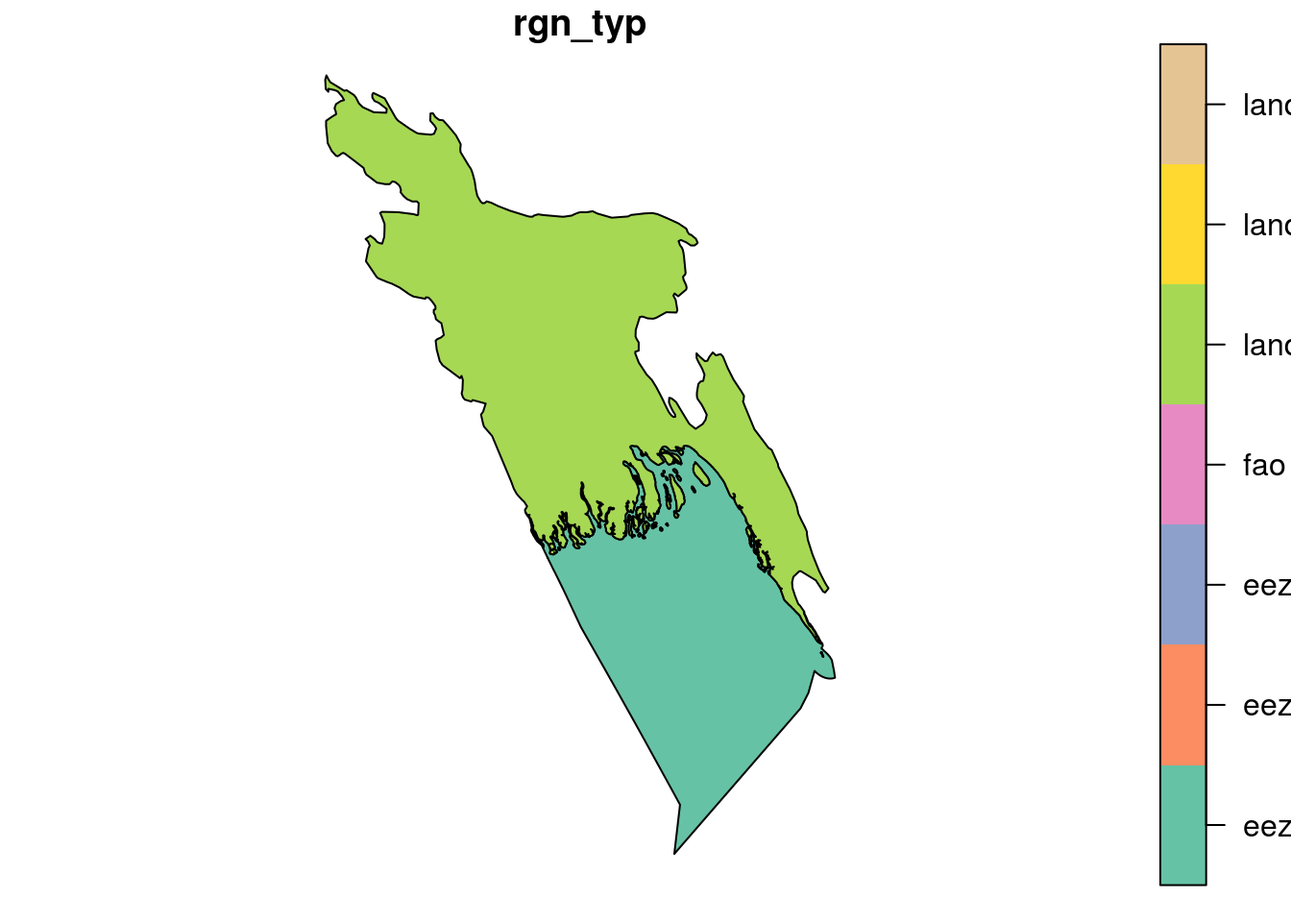
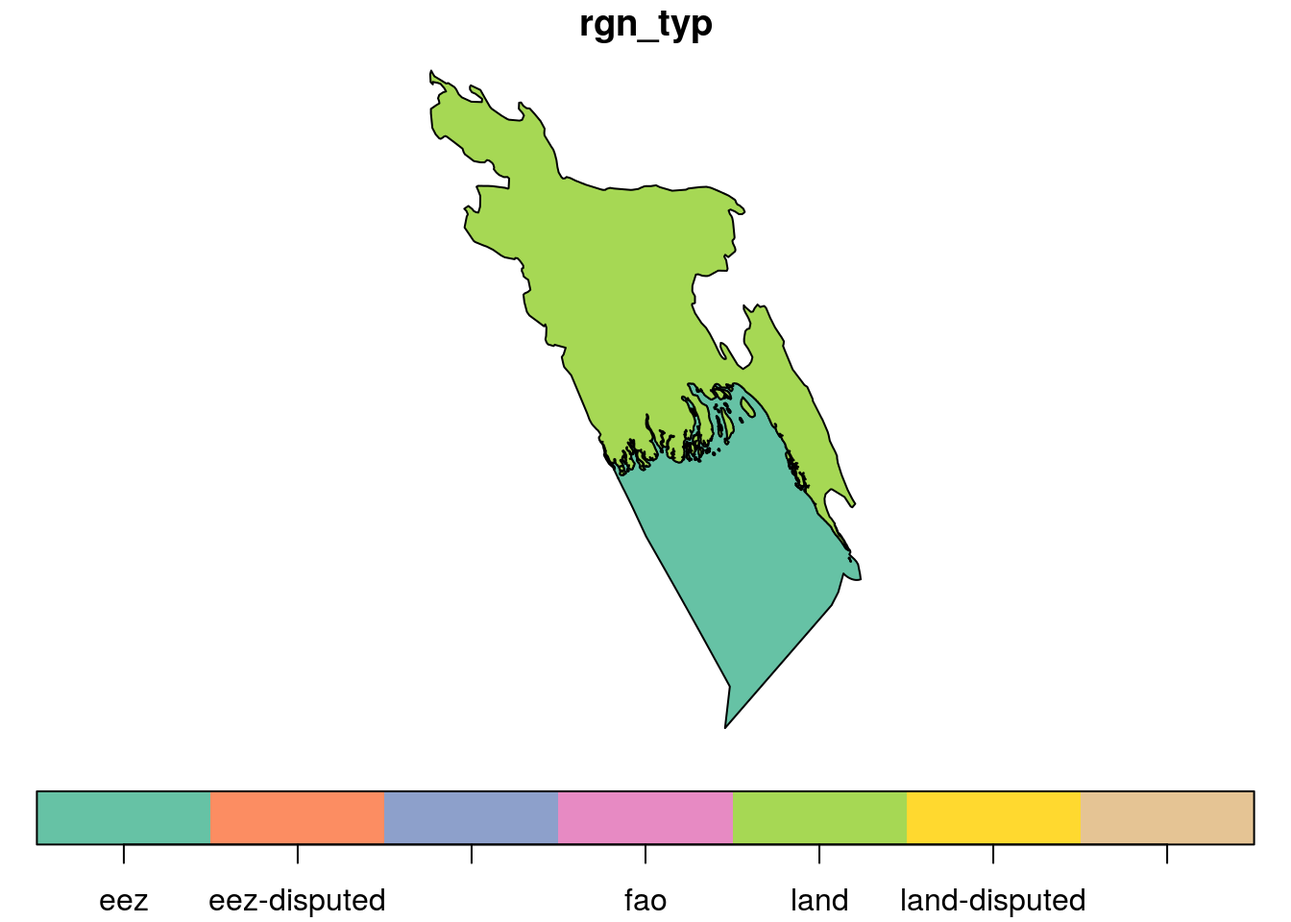
more edits

diff --git a/public/post/cropping-rasters-down-to-size/index.html b/public/post/cropping-rasters-down-to-size/index.html
@@ -344,27 +344,25 @@ A significant portion of my work on the Ocean Health Index (OHI) involves workin
     <div class="article-style" itemprop="articleBody">
       <p><em>This blog post was written for <a href="http://ohi-science.org/">OHI-Science.org</a></em></p>
 <p>A significant portion of my work on the Ocean Health Index (OHI) involves working with <a href="http://desktop.arcgis.com/en/arcmap/10.3/manage-data/raster-and-images/what-is-raster-data.htm">raster data</a>, a specific type of spatial data where values are held in grid cells. The data I work with varies from high resolution, remotely sensed data on <a href="https://www.nodc.noaa.gov/sog/cortad/">sea surface temperature</a> to coarse, modeled data on global <a href="http://www.seaaroundus.org/data/#/spatial-catch">fish catch</a>. When I was working on the <a href="http://ohi-science.org/ohi-global/">global assessment</a>, I dealt with raster data at a global scale.</p>
-<div class="figure">
-<img src="/img/example_rasters.png" />
-
-</div>
+<p><img src="/img/example_rasters.png" /> <em>Examples of raster data used in the Ocean Health Index</em></p>
 <p>Now that I am working on a regional assessment in the <a href="http://www.ohi-northeast.org/">US Northeast</a>, I often need to use the same data from the global assessment but cropped to my regional scale. Since I know I am not the only one doing this (we currently have <a href="http://ohi-science.org/projects/ohi-assessments/">over 20 OHI+ assessments occurring around the world</a>), I wanted to share my process for making our global raster layers usable at regional scales.</p>
-<p>To demonstrate how to crop a global raster layer to a regional scale, here are step-by-step instructions you can follow along with on your computer using the programming language R, which we use for OHI assessments. Essentially, we are going to treat a country’s spatial boundaries like a cookie cutter. When we use it on a global mangrove raster layer for the whole world, we will end up with mangrove data only in the shape of the cookie cutter, in a process called “cropping.”</p>
+<p>To demonstrate how to crop a global raster layer to a regional scale, here are step-by-step instructions you can follow along with on your computer using the programming language R, which we use for OHI assessments. Essentially, we are going to treat a country’s spatial boundaries like a cookie cutter. When we use it on a global mangrove raster layer for the whole world, we will end up with mangrove data only in the shape of the cookie cutter, in a process I’ve named “crop &amp; mask.”</p>
 <p>We will do the following:</p>
 <ol style="list-style-type: decimal">
 <li>Read in a global mangrove dataset</li>
 <li>Select a single country’s spatial boundary from the OHI global region file</li>
-<li><code>crop</code> the mangrove data to the region scale</li>
+<li><code>crop</code> the mangrove data to a <em>bounding box</em> equal to the extent of the region</li>
+<li><code>mask</code> out the mangrove data to retain only the data within region boundaries</li>
 </ol>
-<p>The package you will need are <a href="https://cran.r-project.org/web/packages/raster/vignettes/Raster.pdf"><code>raster</code></a>, <a href="https://r-spatial.github.io/sf/"><code>sf</code></a>, and <a href="https://dplyr.tidyverse.org/"><code>dplyr</code></a>.</p>
+<p>The packages you will need are <a href="https://cran.r-project.org/web/packages/raster/vignettes/Raster.pdf"><code>raster</code></a>, <a href="https://r-spatial.github.io/sf/"><code>sf</code></a>, and <a href="https://dplyr.tidyverse.org/"><code>dplyr</code></a>.</p>
 <pre class="r"><code>## load these three packages using the library() function
 library(raster)
 library(sf)
 library(dplyr)</code></pre>
-<p>Throughout this post, I’ll use the packagename::function nomenclature to identify which package functions come from.</p>
+<p>Throughout this post, I’ll use the <code>packagename::function</code> nomenclature to identify which package functions come from.</p>
 <div id="load-raster-data" class="section level2">
 <h2>Load raster data</h2>
-<p>For this blog, I will use a raster that contains global mangrove data. This file is too large to store on our <a href="https://github.com/OHI-Science/">OHI-Science GitHub account</a>, where most of our OHI data is held. Instead, it is stored on a server at NCEAS and can be downloaded <a href="https://ohi.nceas.ucsb.edu/data/data/mangrove_2012_mw_km2.tif">here</a>. I have downloaded this data onto my personal computer and saved it in a folder called <code>big</code>.</p>
+<p>For this blog, I will use a raster that contains global mangrove data. This file is too large to store on our <a href="https://github.com/OHI-Science/">OHI-Science GitHub account</a>, where most of our OHI data is held. Instead, it is stored on a server at NCEAS and can be downloaded <a href="https://ohi.nceas.ucsb.edu/data/data/mangrove_2012_mw_km2.tif">here</a>.</p>
 <p>Some important information about this dataset:</p>
 <blockquote>
 <p>This is a slightly modified version of the “MFW, Mangrove Forest Cover Loss since 2000 in areas with year 2000 Mangrove Forest” dataset from: Hamilton, S. E., &amp; Casey, D. (2016). <a href="http://faculty.salisbury.edu/~sehamilton/mangroves/index.html">Creation of a high spatio-temporal resolution global database of continuous mangrove forest cover for the 21st century (CGMFC-21)</a>. Global Ecology and Biogeography, 25(6), 729-738. <a href="doi:10.1111/geb.1244" class="uri">doi:10.1111/geb.1244</a>.</p>
@@ -372,6 +370,7 @@ library(dplyr)</code></pre>
 <p>The R scripts we used to estimate mangrove extent and trend are available from <a href="https://github.com/OHI-Science/ohiprep/tree/master/globalprep/hab_mangrove/v2015">GitHub</a>.</p>
 <p>These data could be useful for estimating mangrove cover in regions without local mangrove surveys.</p>
 </blockquote>
+<p>I have downloaded this data onto my personal computer and saved it in a folder called <code>big</code>.</p>
 <p>Let’s first take a look at the downloaded mangrove data. Since mangroves tend to be limited to coastal regions at tropical latitudes, it is difficult to make sense of this data when visualizing it at a global scale, even when I make all cells black in color. This is also due to the high resolution of the data.</p>
 <p>Can you see the dots!?</p>
 <pre class="r"><code>## I&#39;ve saved this raster in a folder called `big` on my personal drive. You will need to replace this file path with where the file is located on your own computer.
@@ -395,24 +394,11 @@ plot(mangrove, col = &quot;black&quot;, axes = FALSE)</code></pre>
 <img src="/img/eezs.png" />
 
 </div>
-<pre class="r"><code># The primary spatial polygon file is &quot;regions&quot;
-download.file(&quot;https://ohi.nceas.ucsb.edu/data/data/regions.zip&quot;, destfile = &quot;/home/afflerbach/big/ohi-global-regions.zip&quot;, quiet = TRUE)
-
-#unzip file
-unzip(&quot;/home/afflerbach/big/ohi-global-regions.zip&quot;, exdir=&quot;/home/afflerbach/big/regions&quot;)</code></pre>
-<p>Once downloaded, you will have two different regions files, one in <strong>Mollweide</strong> and one in <strong>WGS84</strong>. You can select whichever suits your needs. If you need more information on coordinate reference systems see <a href="https://www.nceas.ucsb.edu/~frazier/RSpatialGuides/OverviewCoordinateReferenceSystems.pdf">here</a>.</p>
-<p>Since the mangrove data is already in a Mollweide projection, we will use the regions file in the same projection, <code>regions_mol</code>. I am going to use the function <code>st_read()</code> to load the shapefile. This comes from the <code>sf</code> package and is a preferred method of loading and working with spatial data as opposed to using <code>readOGR()</code> from the <code>rgdal</code> package. The <code>st_read()</code> function will read in the shapefile as a Simple Feature object, meaning the spatial information is stored in a dataframe. This allows you to use data wrangling tools such as <code>dplyr</code> to work with the data.</p>
-<p>MAYBE MOVE -&gt;But, as you’ll see later, when working with both polygons and rasters it is often necessary to convert a simple feature object to a <code>SpatialPolygonsDataFrame</code>.</p>
-<pre class="r"><code>## use st_read to read in the global regions shapefile as a Simple Feature object
-regions &lt;- st_read(&quot;/home/afflerbach/big/regions/regions_mol.shp&quot;)</code></pre>
-<pre><code>## Reading layer `regions_mol&#39; from data source `/home/afflerbach/big/regions/regions_mol.shp&#39; using driver `ESRI Shapefile&#39;
-## Simple feature collection with 551 features and 7 fields
-## geometry type:  MULTIPOLYGON
-## dimension:      XY
-## bbox:           xmin: -18040060 ymin: -9020048 xmax: 18040080 ymax: 9020048
-## epsg (SRID):    NA
-## proj4string:    +proj=moll +lon_0=0 +x_0=0 +y_0=0 +datum=WGS84 +units=m +no_defs</code></pre>
-<p>The <code>regions</code> object is a simple feature with an attribute table that lists some important variables including the type of region (land or EEZ), name, our three-letter key, and total area.</p>
+<p>Once downloaded, you will have two different regions files, one in a <strong>Mollweide</strong> projection and one in <strong>WGS84</strong>. You can select whichever suits your needs. If you need more information on coordinate reference systems see <a href="https://www.nceas.ucsb.edu/~frazier/RSpatialGuides/OverviewCoordinateReferenceSystems.pdf">here</a>.</p>
+<p>Since the mangrove data is already in a Mollweide projection, we will use the regions file in the same projection, <code>regions_mol</code>. I am going to use the function <code>st_read()</code> to load the shapefile. This comes from the <code>sf</code> package and is a preferred method of loading and working with spatial data as opposed to using <code>readOGR()</code> from the <code>rgdal</code> package. The <code>st_read()</code> function will read in the shapefile as a <strong>simple feature</strong> object, meaning the spatial information is stored in a dataframe. This allows you to use data wrangling tools such as <code>dplyr</code> to work with the data.</p>
+<pre class="r"><code>## use st_read to read in the global regions shapefile as a simple feature object
+regions &lt;- st_read(&quot;/home/afflerbach/big/regions/regions_mol.shp&quot;, quiet = TRUE)</code></pre>
+<p>The <code>regions</code> object is a simple feature with an attribute table in the form of a dataframe that lists some important variables including the type of region (land or EEZ), name, our OHI three-letter key, and total area.</p>
 <pre class="r"><code>head(regions)</code></pre>
 <pre><code>## Simple feature collection with 6 features and 7 fields
 ## geometry type:  MULTIPOLYGON
@@ -437,6 +423,7 @@ regions &lt;- st_read(&quot;/home/afflerbach/big/regions/regions_mol.shp&quot;)<
 <p>Let’s plot the object to make sure what we have is what we expect. With simple features, you need to tell <code>plot()</code> which column to show, otherwise R will create a plot for every column, which we do not need! Here I am plotting just the <code>rgn_id</code> column. When plotting an sf object, you need to plot based on column location, and <code>rgn_id</code> is the third column:</p>
 <pre class="r"><code>plot(regions[3])</code></pre>
 <p><img src="/post/2018-04-26-cropping-rasters-down-to-size_files/figure-html/plot_rgns-1.png" width="672" /></p>
+<p>OK this looks like what we want!</p>
 </div>
 <div id="select-region-of-interest" class="section level2">
 <h2>Select region of interest</h2>
@@ -445,7 +432,7 @@ regions &lt;- st_read(&quot;/home/afflerbach/big/regions/regions_mol.shp&quot;)<
 bangladesh &lt;- regions %&gt;% 
   dplyr::filter(rgn_nam == &quot;Bangladesh&quot;)
 
-plot(bangladesh[1])</code></pre>
+plot(bangladesh[1], key.pos = 1)</code></pre>
 <p><img src="/post/2018-04-26-cropping-rasters-down-to-size_files/figure-html/plot_region-1.png" width="672" /></p>
 <p>This looks like what we want, so I recommend saving this object with <code>st_write()</code> to use in other parts of your analysis.</p>
 <pre class="r"><code># save the output (saving as an ESRI Shapefile):
@@ -465,7 +452,9 @@ bang_sp</code></pre>
 ## min values  :     eez,     eez,    204,    204, Bangladesh,     BGD, 139812.14 
 ## max values  :    land,    land,    204,    204, Bangladesh,     BGD,  84563.26</code></pre>
 <p>In a <code>SpatialPolygonsDataFrame</code>, attribute data is stored as a <code>data.frame</code> in the data slot, but the actual geometric features are stored in a polygons slot. This structure can be confusing to work with but until the <code>raster</code> package improves compatibility with <code>sf</code> objects, it is necessary to use <code>SpatialPolygonsDataFrames</code> with the <code>raster</code> package.</p>
-<p>Now we can use <code>bang_sp</code> to get the mangrove data that we are interested in, which is all mangrove habitat within the borders of Bangladesh. This requires two steps: 1. <code>raster::crop()</code> 2. <code>raster::mask()</code></p>
+<p>Now we can use <code>bang_sp</code> to get the mangrove data that we are interested in, which is all mangrove habitat within the borders of Bangladesh. This requires two steps:<br />
+1. <code>raster::crop()</code><br />
+2. <code>raster::mask()</code></p>
 <p>After trial and error I have determined that these two steps, in this order, is the fastest way to get the data we want. By first using the <code>crop()</code> function, we crop the <code>mangrove</code> raster dataset to a <em>bounding box</em> equal to the extent of the <code>bang_sp</code> object. I think of this as a way to zoom into the dataset so we only see what’s in our region of interest. But this still returns data that falls outside of Bangladesh:</p>
 <pre class="r"><code>bang_man &lt;- raster::crop(mangrove, bang_sp)
 plot(bang_man, axes = FALSE)

diff --git a/content/post/2018-04-26-cropping-rasters-down-to-size.html b/content/post/2018-04-26-cropping-rasters-down-to-size.html
@@ -11,27 +11,25 @@ tags: ["spatial", "Ocean Health Index"]
 
 <p><em>This blog post was written for <a href="http://ohi-science.org/">OHI-Science.org</a></em></p>
 <p>A significant portion of my work on the Ocean Health Index (OHI) involves working with <a href="http://desktop.arcgis.com/en/arcmap/10.3/manage-data/raster-and-images/what-is-raster-data.htm">raster data</a>, a specific type of spatial data where values are held in grid cells. The data I work with varies from high resolution, remotely sensed data on <a href="https://www.nodc.noaa.gov/sog/cortad/">sea surface temperature</a> to coarse, modeled data on global <a href="http://www.seaaroundus.org/data/#/spatial-catch">fish catch</a>. When I was working on the <a href="http://ohi-science.org/ohi-global/">global assessment</a>, I dealt with raster data at a global scale.</p>
-<div class="figure">
-<img src="/img/example_rasters.png" />
-
-</div>
+<p><img src="/img/example_rasters.png" /> <em>Examples of raster data used in the Ocean Health Index</em></p>
 <p>Now that I am working on a regional assessment in the <a href="http://www.ohi-northeast.org/">US Northeast</a>, I often need to use the same data from the global assessment but cropped to my regional scale. Since I know I am not the only one doing this (we currently have <a href="http://ohi-science.org/projects/ohi-assessments/">over 20 OHI+ assessments occurring around the world</a>), I wanted to share my process for making our global raster layers usable at regional scales.</p>
-<p>To demonstrate how to crop a global raster layer to a regional scale, here are step-by-step instructions you can follow along with on your computer using the programming language R, which we use for OHI assessments. Essentially, we are going to treat a country’s spatial boundaries like a cookie cutter. When we use it on a global mangrove raster layer for the whole world, we will end up with mangrove data only in the shape of the cookie cutter, in a process called “cropping.”</p>
+<p>To demonstrate how to crop a global raster layer to a regional scale, here are step-by-step instructions you can follow along with on your computer using the programming language R, which we use for OHI assessments. Essentially, we are going to treat a country’s spatial boundaries like a cookie cutter. When we use it on a global mangrove raster layer for the whole world, we will end up with mangrove data only in the shape of the cookie cutter, in a process I’ve named “crop &amp; mask.”</p>
 <p>We will do the following:</p>
 <ol style="list-style-type: decimal">
 <li>Read in a global mangrove dataset</li>
 <li>Select a single country’s spatial boundary from the OHI global region file</li>
-<li><code>crop</code> the mangrove data to the region scale</li>
+<li><code>crop</code> the mangrove data to a <em>bounding box</em> equal to the extent of the region</li>
+<li><code>mask</code> out the mangrove data to retain only the data within region boundaries</li>
 </ol>
-<p>The package you will need are <a href="https://cran.r-project.org/web/packages/raster/vignettes/Raster.pdf"><code>raster</code></a>, <a href="https://r-spatial.github.io/sf/"><code>sf</code></a>, and <a href="https://dplyr.tidyverse.org/"><code>dplyr</code></a>.</p>
+<p>The packages you will need are <a href="https://cran.r-project.org/web/packages/raster/vignettes/Raster.pdf"><code>raster</code></a>, <a href="https://r-spatial.github.io/sf/"><code>sf</code></a>, and <a href="https://dplyr.tidyverse.org/"><code>dplyr</code></a>.</p>
 <pre class="r"><code>## load these three packages using the library() function
 library(raster)
 library(sf)
 library(dplyr)</code></pre>
-<p>Throughout this post, I’ll use the packagename::function nomenclature to identify which package functions come from.</p>
+<p>Throughout this post, I’ll use the <code>packagename::function</code> nomenclature to identify which package functions come from.</p>
 <div id="load-raster-data" class="section level2">
 <h2>Load raster data</h2>
-<p>For this blog, I will use a raster that contains global mangrove data. This file is too large to store on our <a href="https://github.com/OHI-Science/">OHI-Science GitHub account</a>, where most of our OHI data is held. Instead, it is stored on a server at NCEAS and can be downloaded <a href="https://ohi.nceas.ucsb.edu/data/data/mangrove_2012_mw_km2.tif">here</a>. I have downloaded this data onto my personal computer and saved it in a folder called <code>big</code>.</p>
+<p>For this blog, I will use a raster that contains global mangrove data. This file is too large to store on our <a href="https://github.com/OHI-Science/">OHI-Science GitHub account</a>, where most of our OHI data is held. Instead, it is stored on a server at NCEAS and can be downloaded <a href="https://ohi.nceas.ucsb.edu/data/data/mangrove_2012_mw_km2.tif">here</a>.</p>
 <p>Some important information about this dataset:</p>
 <blockquote>
 <p>This is a slightly modified version of the “MFW, Mangrove Forest Cover Loss since 2000 in areas with year 2000 Mangrove Forest” dataset from: Hamilton, S. E., &amp; Casey, D. (2016). <a href="http://faculty.salisbury.edu/~sehamilton/mangroves/index.html">Creation of a high spatio-temporal resolution global database of continuous mangrove forest cover for the 21st century (CGMFC-21)</a>. Global Ecology and Biogeography, 25(6), 729-738. <a href="doi:10.1111/geb.1244" class="uri">doi:10.1111/geb.1244</a>.</p>
@@ -39,6 +37,7 @@ library(dplyr)</code></pre>
 <p>The R scripts we used to estimate mangrove extent and trend are available from <a href="https://github.com/OHI-Science/ohiprep/tree/master/globalprep/hab_mangrove/v2015">GitHub</a>.</p>
 <p>These data could be useful for estimating mangrove cover in regions without local mangrove surveys.</p>
 </blockquote>
+<p>I have downloaded this data onto my personal computer and saved it in a folder called <code>big</code>.</p>
 <p>Let’s first take a look at the downloaded mangrove data. Since mangroves tend to be limited to coastal regions at tropical latitudes, it is difficult to make sense of this data when visualizing it at a global scale, even when I make all cells black in color. This is also due to the high resolution of the data.</p>
 <p>Can you see the dots!?</p>
 <pre class="r"><code>## I&#39;ve saved this raster in a folder called `big` on my personal drive. You will need to replace this file path with where the file is located on your own computer.
@@ -62,24 +61,11 @@ plot(mangrove, col = &quot;black&quot;, axes = FALSE)</code></pre>
 <img src="/img/eezs.png" />
 
 </div>
-<pre class="r"><code># The primary spatial polygon file is &quot;regions&quot;
-download.file(&quot;https://ohi.nceas.ucsb.edu/data/data/regions.zip&quot;, destfile = &quot;/home/afflerbach/big/ohi-global-regions.zip&quot;, quiet = TRUE)
-
-#unzip file
-unzip(&quot;/home/afflerbach/big/ohi-global-regions.zip&quot;, exdir=&quot;/home/afflerbach/big/regions&quot;)</code></pre>
-<p>Once downloaded, you will have two different regions files, one in <strong>Mollweide</strong> and one in <strong>WGS84</strong>. You can select whichever suits your needs. If you need more information on coordinate reference systems see <a href="https://www.nceas.ucsb.edu/~frazier/RSpatialGuides/OverviewCoordinateReferenceSystems.pdf">here</a>.</p>
-<p>Since the mangrove data is already in a Mollweide projection, we will use the regions file in the same projection, <code>regions_mol</code>. I am going to use the function <code>st_read()</code> to load the shapefile. This comes from the <code>sf</code> package and is a preferred method of loading and working with spatial data as opposed to using <code>readOGR()</code> from the <code>rgdal</code> package. The <code>st_read()</code> function will read in the shapefile as a Simple Feature object, meaning the spatial information is stored in a dataframe. This allows you to use data wrangling tools such as <code>dplyr</code> to work with the data.</p>
-<p>MAYBE MOVE -&gt;But, as you’ll see later, when working with both polygons and rasters it is often necessary to convert a simple feature object to a <code>SpatialPolygonsDataFrame</code>.</p>
-<pre class="r"><code>## use st_read to read in the global regions shapefile as a Simple Feature object
-regions &lt;- st_read(&quot;/home/afflerbach/big/regions/regions_mol.shp&quot;)</code></pre>
-<pre><code>## Reading layer `regions_mol&#39; from data source `/home/afflerbach/big/regions/regions_mol.shp&#39; using driver `ESRI Shapefile&#39;
-## Simple feature collection with 551 features and 7 fields
-## geometry type:  MULTIPOLYGON
-## dimension:      XY
-## bbox:           xmin: -18040060 ymin: -9020048 xmax: 18040080 ymax: 9020048
-## epsg (SRID):    NA
-## proj4string:    +proj=moll +lon_0=0 +x_0=0 +y_0=0 +datum=WGS84 +units=m +no_defs</code></pre>
-<p>The <code>regions</code> object is a simple feature with an attribute table that lists some important variables including the type of region (land or EEZ), name, our three-letter key, and total area.</p>
+<p>Once downloaded, you will have two different regions files, one in a <strong>Mollweide</strong> projection and one in <strong>WGS84</strong>. You can select whichever suits your needs. If you need more information on coordinate reference systems see <a href="https://www.nceas.ucsb.edu/~frazier/RSpatialGuides/OverviewCoordinateReferenceSystems.pdf">here</a>.</p>
+<p>Since the mangrove data is already in a Mollweide projection, we will use the regions file in the same projection, <code>regions_mol</code>. I am going to use the function <code>st_read()</code> to load the shapefile. This comes from the <code>sf</code> package and is a preferred method of loading and working with spatial data as opposed to using <code>readOGR()</code> from the <code>rgdal</code> package. The <code>st_read()</code> function will read in the shapefile as a <strong>simple feature</strong> object, meaning the spatial information is stored in a dataframe. This allows you to use data wrangling tools such as <code>dplyr</code> to work with the data.</p>
+<pre class="r"><code>## use st_read to read in the global regions shapefile as a simple feature object
+regions &lt;- st_read(&quot;/home/afflerbach/big/regions/regions_mol.shp&quot;, quiet = TRUE)</code></pre>
+<p>The <code>regions</code> object is a simple feature with an attribute table in the form of a dataframe that lists some important variables including the type of region (land or EEZ), name, our OHI three-letter key, and total area.</p>
 <pre class="r"><code>head(regions)</code></pre>
 <pre><code>## Simple feature collection with 6 features and 7 fields
 ## geometry type:  MULTIPOLYGON
@@ -104,6 +90,7 @@ regions &lt;- st_read(&quot;/home/afflerbach/big/regions/regions_mol.shp&quot;)<
 <p>Let’s plot the object to make sure what we have is what we expect. With simple features, you need to tell <code>plot()</code> which column to show, otherwise R will create a plot for every column, which we do not need! Here I am plotting just the <code>rgn_id</code> column. When plotting an sf object, you need to plot based on column location, and <code>rgn_id</code> is the third column:</p>
 <pre class="r"><code>plot(regions[3])</code></pre>
 <p><img src="/post/2018-04-26-cropping-rasters-down-to-size_files/figure-html/plot_rgns-1.png" width="672" /></p>
+<p>OK this looks like what we want!</p>
 </div>
 <div id="select-region-of-interest" class="section level2">
 <h2>Select region of interest</h2>
@@ -112,7 +99,7 @@ regions &lt;- st_read(&quot;/home/afflerbach/big/regions/regions_mol.shp&quot;)<
 bangladesh &lt;- regions %&gt;% 
   dplyr::filter(rgn_nam == &quot;Bangladesh&quot;)
 
-plot(bangladesh[1])</code></pre>
+plot(bangladesh[1], key.pos = 1)</code></pre>
 <p><img src="/post/2018-04-26-cropping-rasters-down-to-size_files/figure-html/plot_region-1.png" width="672" /></p>
 <p>This looks like what we want, so I recommend saving this object with <code>st_write()</code> to use in other parts of your analysis.</p>
 <pre class="r"><code># save the output (saving as an ESRI Shapefile):
@@ -132,7 +119,9 @@ bang_sp</code></pre>
 ## min values  :     eez,     eez,    204,    204, Bangladesh,     BGD, 139812.14 
 ## max values  :    land,    land,    204,    204, Bangladesh,     BGD,  84563.26</code></pre>
 <p>In a <code>SpatialPolygonsDataFrame</code>, attribute data is stored as a <code>data.frame</code> in the data slot, but the actual geometric features are stored in a polygons slot. This structure can be confusing to work with but until the <code>raster</code> package improves compatibility with <code>sf</code> objects, it is necessary to use <code>SpatialPolygonsDataFrames</code> with the <code>raster</code> package.</p>
-<p>Now we can use <code>bang_sp</code> to get the mangrove data that we are interested in, which is all mangrove habitat within the borders of Bangladesh. This requires two steps: 1. <code>raster::crop()</code> 2. <code>raster::mask()</code></p>
+<p>Now we can use <code>bang_sp</code> to get the mangrove data that we are interested in, which is all mangrove habitat within the borders of Bangladesh. This requires two steps:<br />
+1. <code>raster::crop()</code><br />
+2. <code>raster::mask()</code></p>
 <p>After trial and error I have determined that these two steps, in this order, is the fastest way to get the data we want. By first using the <code>crop()</code> function, we crop the <code>mangrove</code> raster dataset to a <em>bounding box</em> equal to the extent of the <code>bang_sp</code> object. I think of this as a way to zoom into the dataset so we only see what’s in our region of interest. But this still returns data that falls outside of Bangladesh:</p>
 <pre class="r"><code>bang_man &lt;- raster::crop(mangrove, bang_sp)
 plot(bang_man, axes = FALSE)
